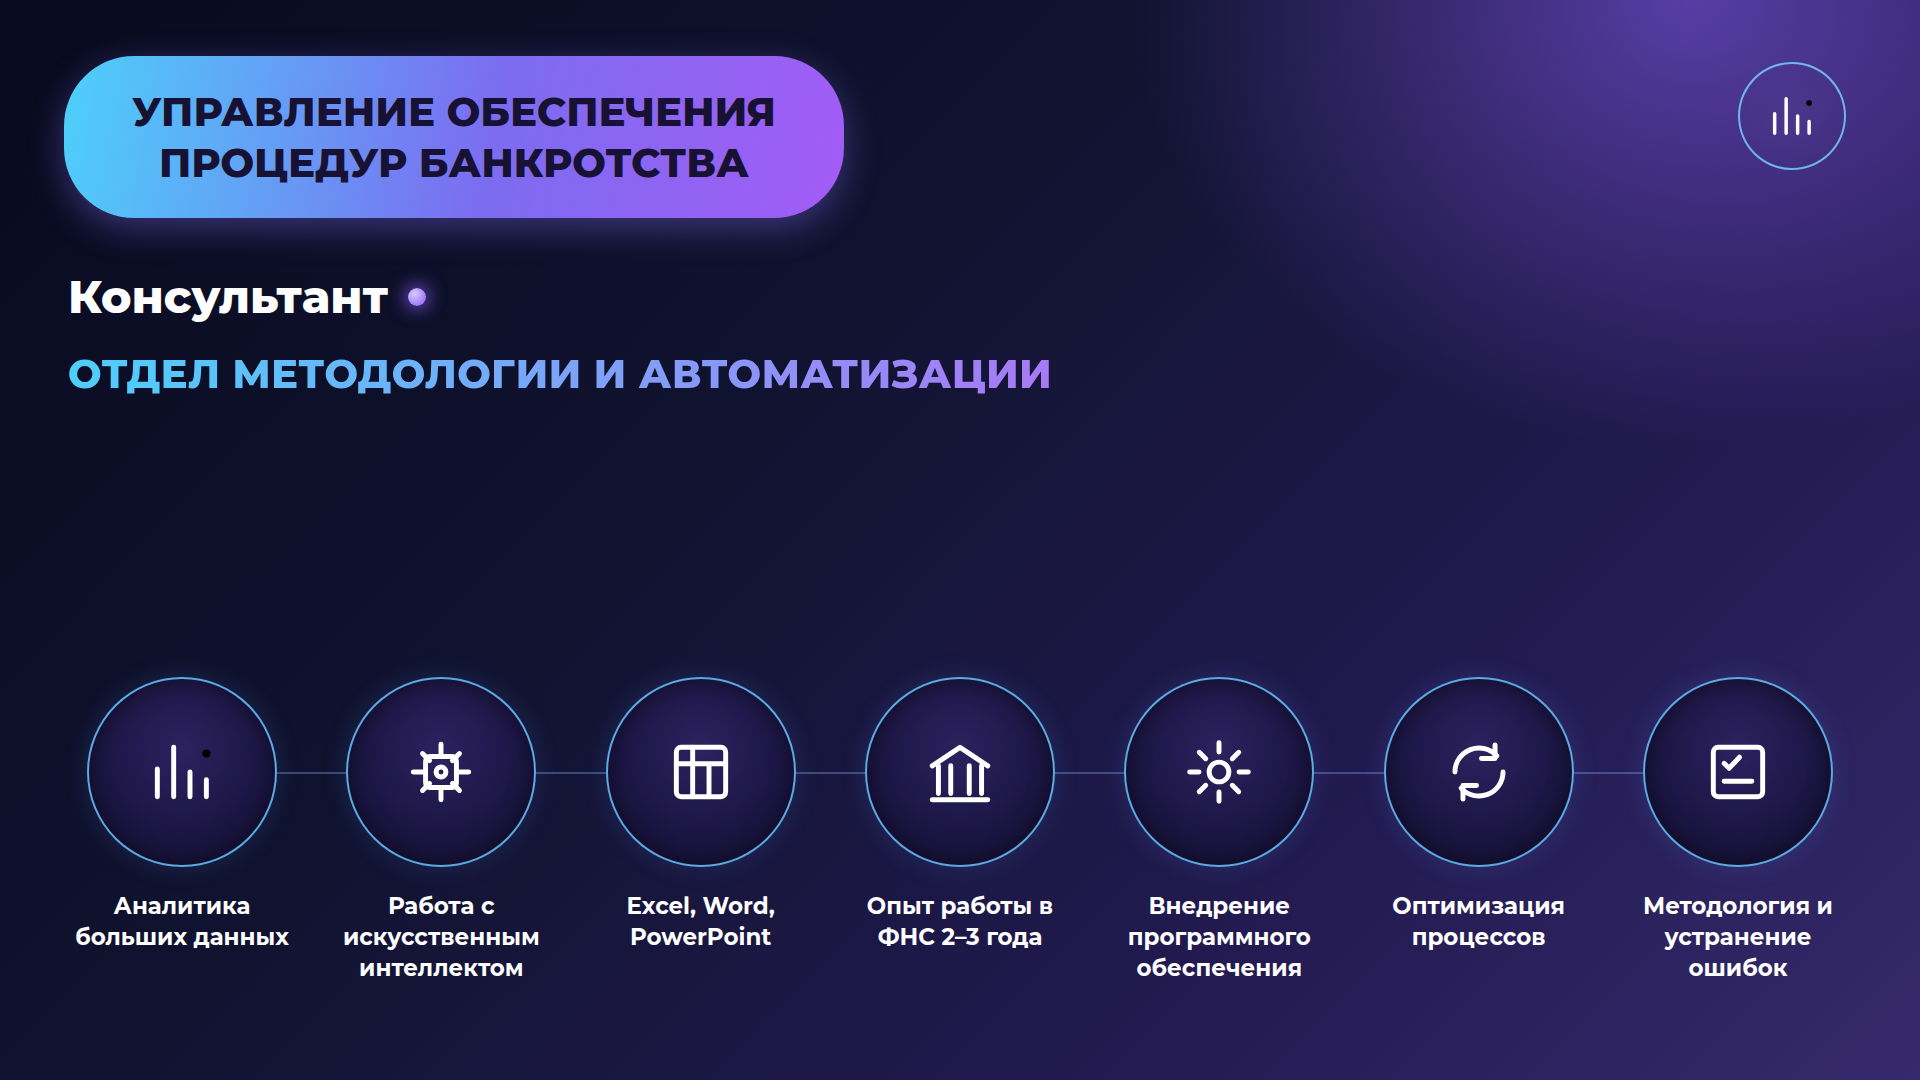
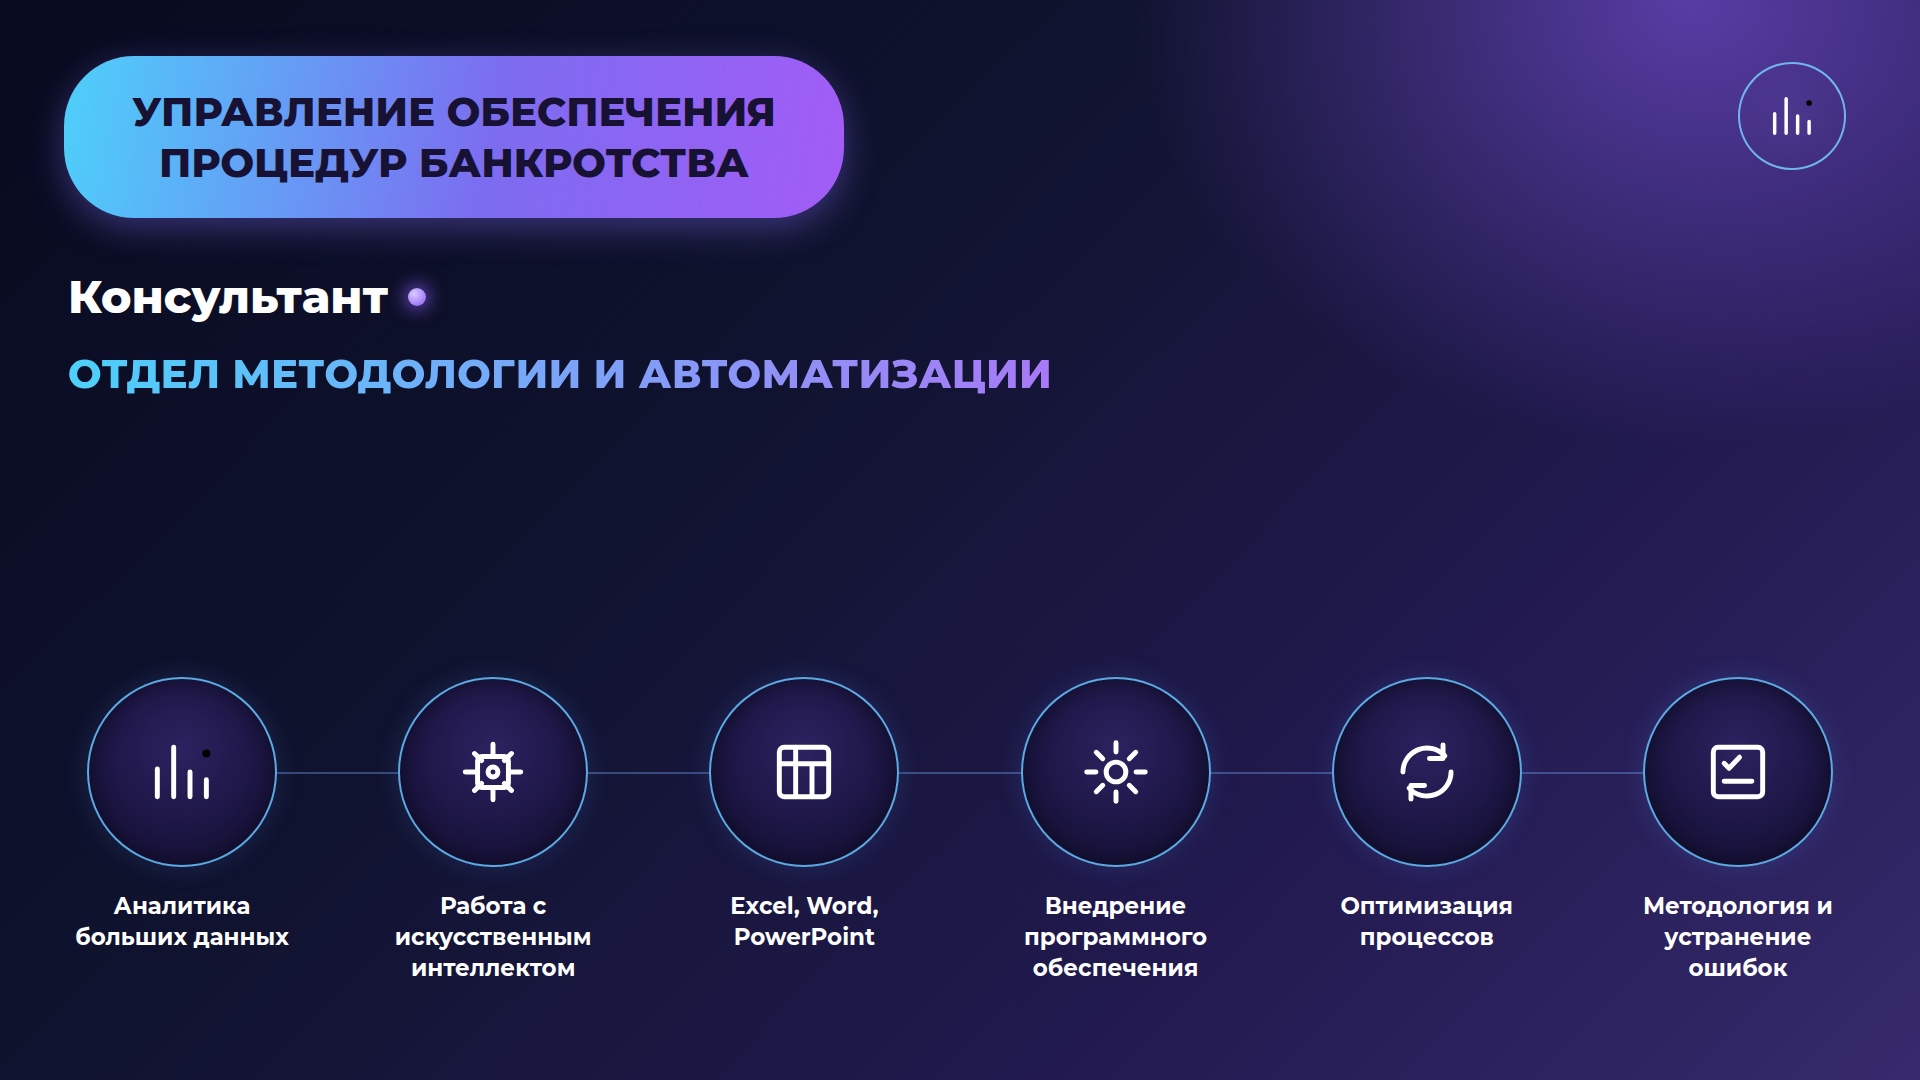
Remove FNS experience item from card 5
Drops the "Опыт работы в ФНС 2-3 года" icon from the methodology &
automation card, leaving 6 evenly spaced items.

diff --git a/cards/cards.html b/cards/cards.html
@@ -369,10 +369,6 @@ svg.defs { position:absolute; width:0; height:0; }
           <div class="icon-label">Excel, Word, PowerPoint</div>
         </div>
         <div class="icon-col">
-          <div class="icon-circle"><svg class="icon" viewBox="0 0 24 24"><use href="#icon-bank"/></svg></div>
-          <div class="icon-label">Опыт работы в ФНС 2–3 года</div>
-        </div>
-        <div class="icon-col">
           <div class="icon-circle"><svg class="icon" viewBox="0 0 24 24"><use href="#icon-gear"/></svg></div>
           <div class="icon-label">Внедрение программного обеспечения</div>
         </div>

diff --git a/cards/generate.py b/cards/generate.py
@@ -69,7 +69,6 @@ CARDS = [
             ("bar-chart", "Аналитика больших данных"),
             ("chip", "Работа с искусственным интеллектом"),
             ("spreadsheet", "Excel, Word, PowerPoint"),
-            ("bank", "Опыт работы в ФНС 2–3 года"),
             ("gear", "Внедрение программного обеспечения"),
             ("refresh", "Оптимизация процессов"),
             ("checklist", "Методология и устранение ошибок"),
